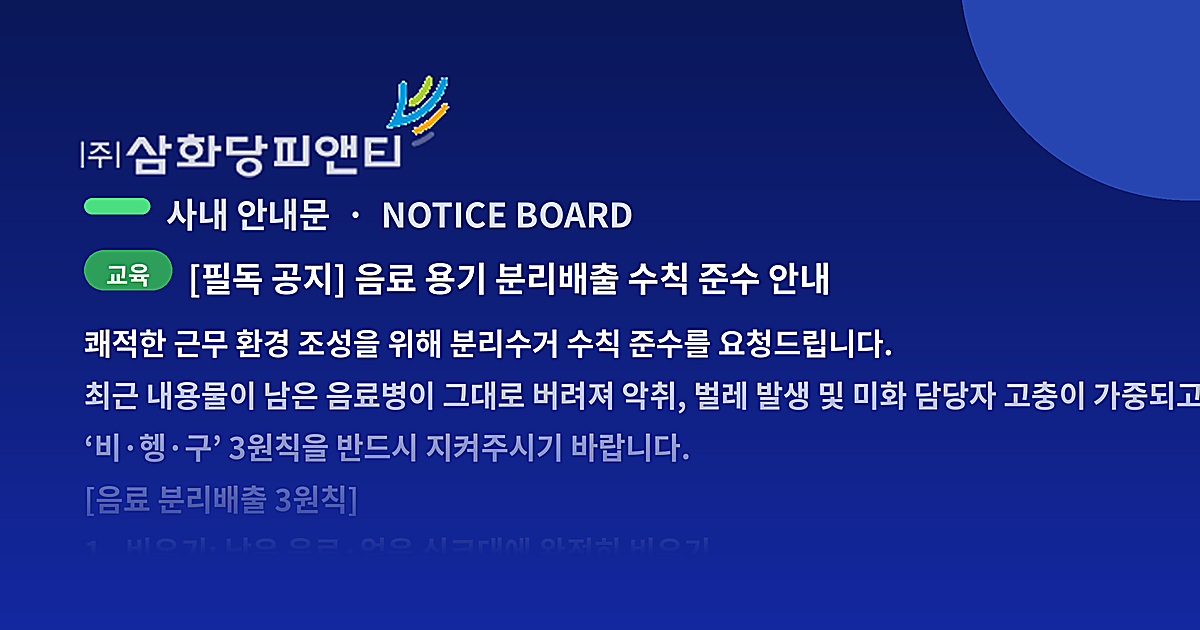
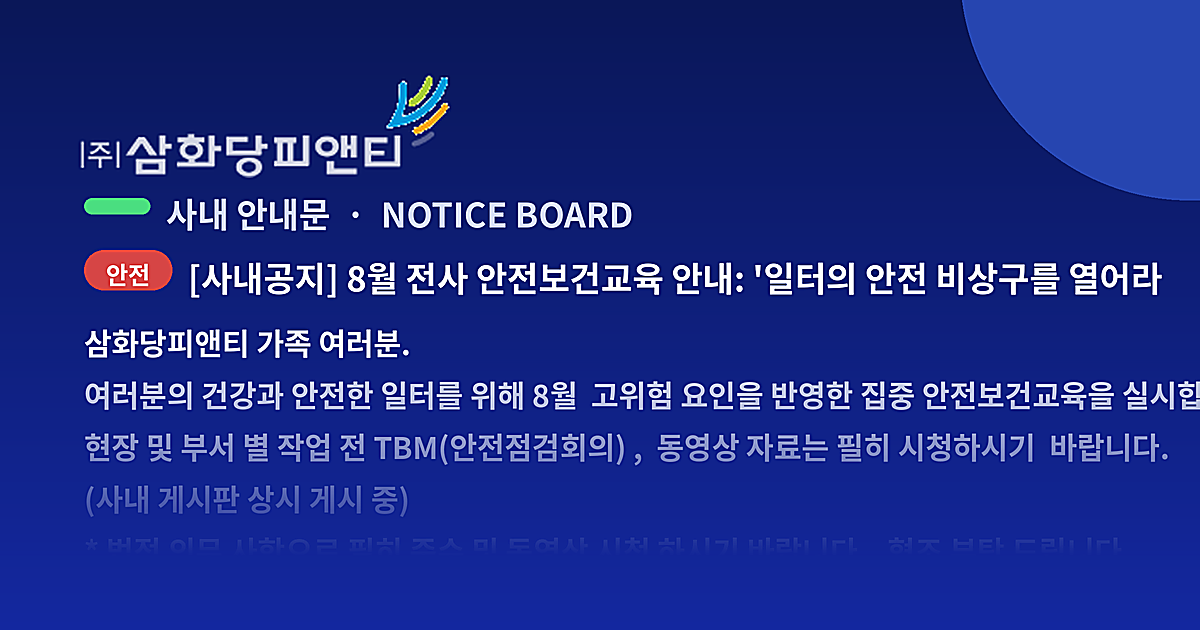
auto: 카톡 미리보기 갱신 [skip ci]

Changed region(s): [[0.0617, 0.6032, 1.0, 0.8143], [0.0617, 0.3921, 0.9867, 0.4825], [0.0617, 0.5127, 0.74, 0.573]]

diff --git a/index.html b/index.html
@@ -13,9 +13,9 @@
      ▶ 카드 이미지는 share/og-image.png 입니다. 교체하려면 같은 이름으로 덮어쓰세요. -->
 <meta property="og:type" content="website" />
 <meta property="og:site_name" content="(주)삼화당피앤티 사내 안내문" />
-<meta property="og:title" content="📢 [삼화당피앤티] [필독 공지] 음료 용기 분리배출 수칙 준수 안내" />
-<meta property="og:description" content="쾌적한 근무 환경 조성을 위해 분리수거 수칙 준수를 요청드립니다. 최근 내용물이 남은 음료병이 그대로 버려져 악취, 벌레 발생 및 미화 담당자 고충이 가중되고 있습니다. 재활용률 향상과 청결한 환경을 위해" />
-<meta property="og:image" content="https://kinof2018-create.github.io/mh4/share/og-image.png?v=20a8047aea" />
+<meta property="og:title" content="📢 [삼화당피앤티] [사내공지] 8월 전사 안전보건교육 안내: &#x27;일터의 안전 비상구를 열어라" />
+<meta property="og:description" content="삼화당피앤티 가족 여러분. 여러분의 건강과 안전한 일터를 위해 8월  고위험 요인을 반영한 집중 안전보건교육을 실시합니다.(온라인 교육 및 팀장 회의)" />
+<meta property="og:image" content="https://kinof2018-create.github.io/mh4/share/og-image.png?v=8ec96e3fea" />
 <meta property="og:image:width" content="1200" />
 <meta property="og:image:height" content="630" />
 <meta property="og:url" content="https://kinof2018-create.github.io/mh4/" />
